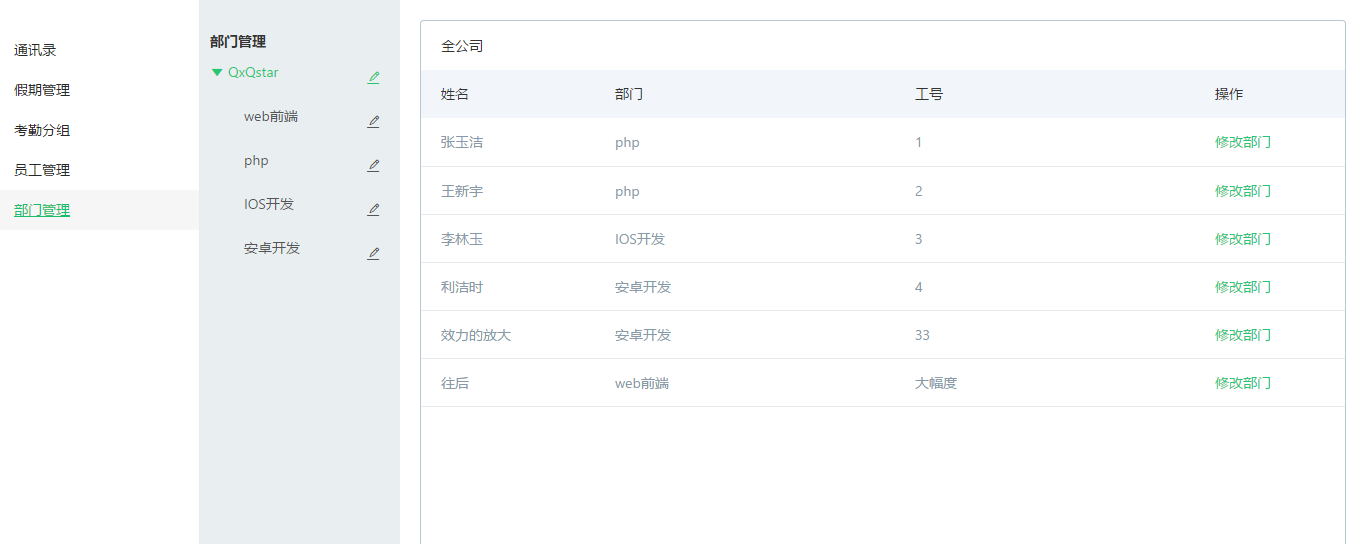
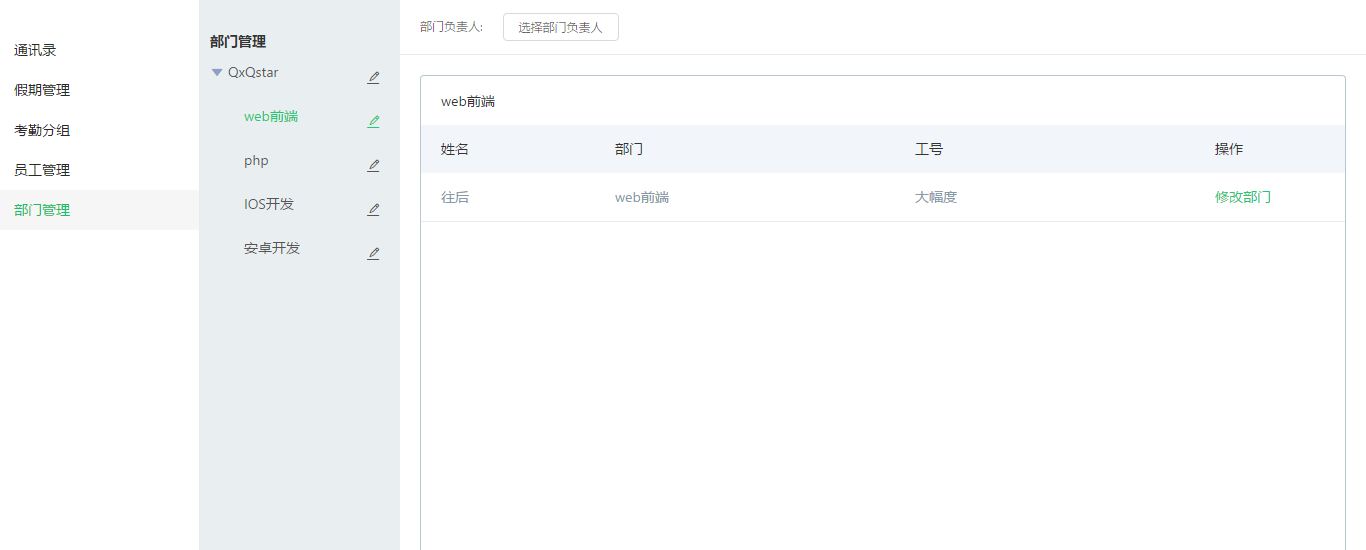
项目说明

diff --git a/README.md b/README.md
@@ -1,2 +1,29 @@
-# react-demo
-react学习笔记以及react-demo
+## 安装
+> 进入my-app目录，然后在命令行中输入npm install
+## 运行
+> 在my-app目录下，npm start
+## 注意
+> 由于这个demo接入了数据库mongodb，所有要安装mongodb才能运行完整的功能!!!(员工管理和部门管理中用到了数据库)。安装了mongodb还需要启动
+  mongodb
+## 技术栈
+* React v15.6.2
+* react-redux
+* redux
+* react-router-dom
+* webpack
+* nodeJs
+* mongodb
+* axios
+## 截图
+> 通讯录
+![通讯录-公司职员列表截图](./exampleImg/addressBook.png)
+> 假期管理
+![假期管理-假期类型列表截图](./exampleImg/holiday.png)
+> 考勤分组
+![考勤分组-分组列表截图](./exampleImg/group.png)
+> 选择人员
+![选择人员弹窗](./exampleImg/addGroup.png)
+> 员工管理
+![员工列表](./exampleImg/member.png)
+> 部门管理
+![部门管理列表](./exampleImg/dept.png)
